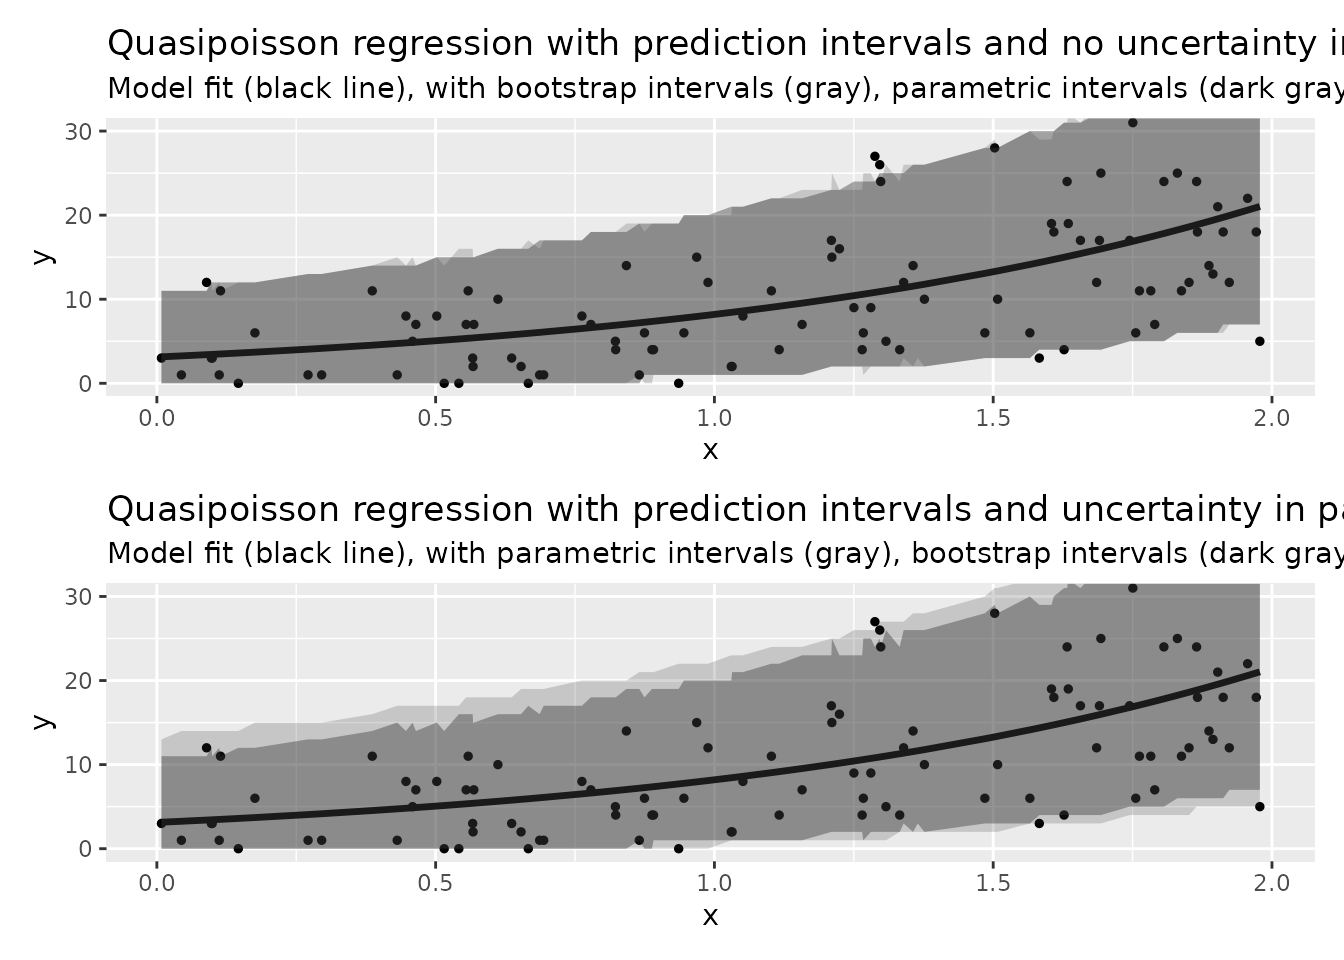
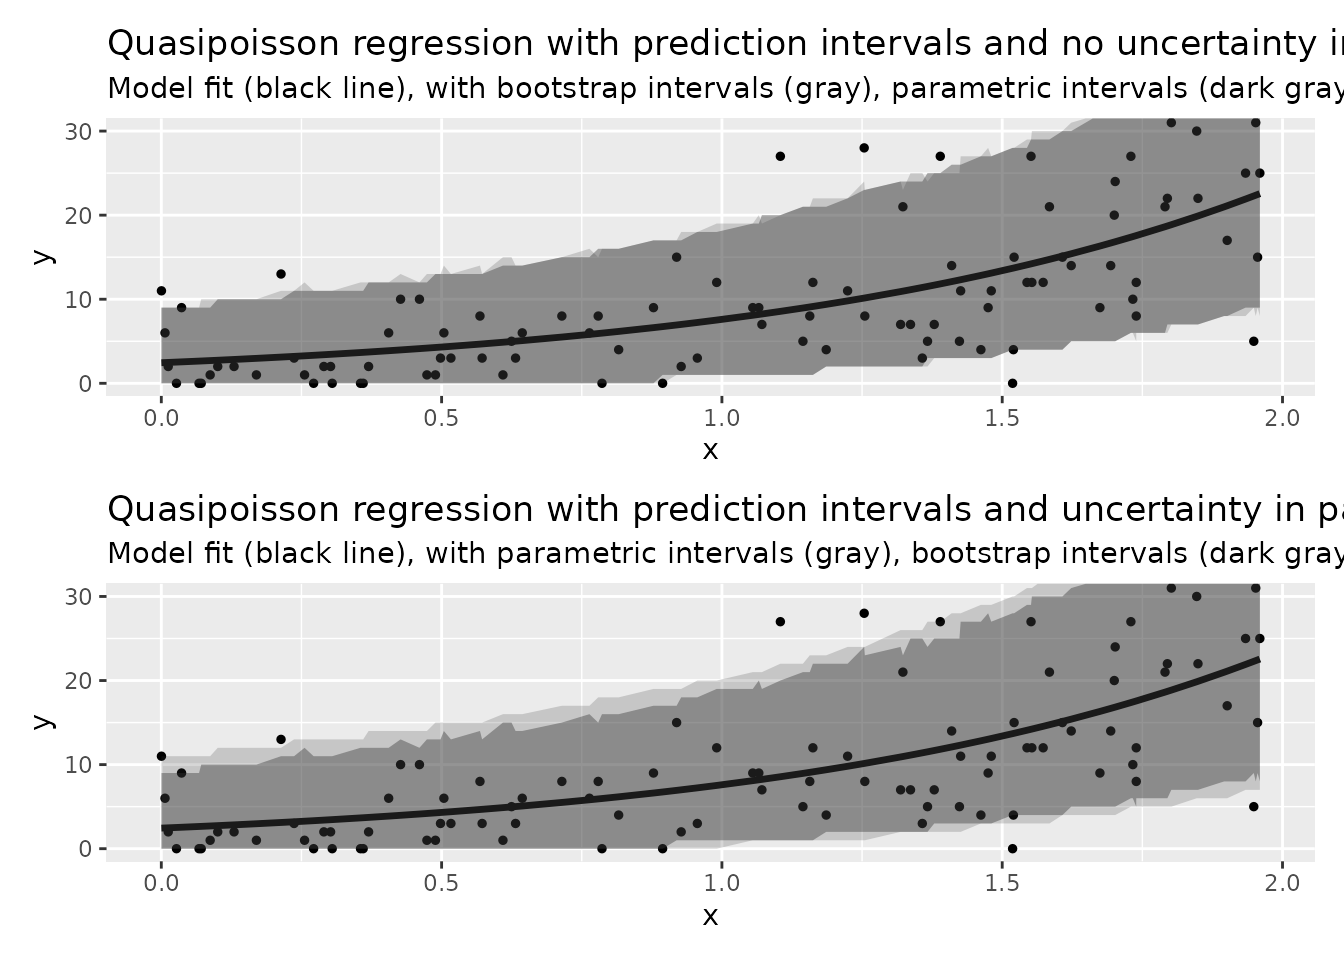
Built site for trending: 0.0.3.9000@e8d33d1

diff --git a/articles/prediction_intervals.html b/articles/prediction_intervals.html
@@ -141,13 +141,13 @@
 <span class="co">#&gt; Warning in add_pi.glm(dat, fit, names = c("lpb", "upb"), alpha = 0.1, nsims =</span>
 <span class="co">#&gt; 20000): The response is not continuous, so Prediction Intervals are approximate</span>
 <span class="fu"><a href="https://rdrr.io/r/utils/head.html">head</a></span><span class="op">(</span><span class="va">dat1</span><span class="op">)</span>
-<span class="co">#&gt;             x  y      pred lpb upb</span>
-<span class="co">#&gt; 1 -0.93034106  1  2.538928   0   6</span>
-<span class="co">#&gt; 2 -0.33534733  6  3.562055   1   7</span>
-<span class="co">#&gt; 3 -0.07144484  4  4.139264   1   8</span>
-<span class="co">#&gt; 4  2.03782205 12 13.747383   8  20</span>
-<span class="co">#&gt; 5 -1.28793915  0  2.071435   0   5</span>
-<span class="co">#&gt; 6  0.24779871  4  4.963899   2   9</span>
+<span class="co">#&gt;             x  y     pred lpb upb</span>
+<span class="co">#&gt; 1  0.12347935 10 5.267692   2   9</span>
+<span class="co">#&gt; 2 -0.18997669  4 4.616599   1   9</span>
+<span class="co">#&gt; 3  1.63260433  9 9.942160   5  16</span>
+<span class="co">#&gt; 4  0.50261976  6 6.179101   2  10</span>
+<span class="co">#&gt; 5  0.02462994  6 5.053022   2   9</span>
+<span class="co">#&gt; 6  0.05769333  7 5.123833   2   9</span>
 
 <span class="co"># add intervals with trending (no uncertainty in parameters)</span>
 <span class="va">poisson_model</span> <span class="op">&lt;-</span> <span class="fu"><a href="../reference/trending_model.html">glm_model</a></span><span class="op">(</span><span class="va">y</span> <span class="op">~</span> <span class="va">x</span>, family <span class="op">=</span> <span class="st">"poisson"</span><span class="op">)</span>
@@ -158,12 +158,12 @@
 <span class="co">#&gt; &lt;trending_prediction&gt; 6 x 7</span>
 <span class="co">#&gt;       y       x estimate lower_ci upper_ci lower_pi upper_pi</span>
 <span class="co">#&gt;   &lt;int&gt;   &lt;dbl&gt;    &lt;dbl&gt;    &lt;dbl&gt;    &lt;dbl&gt;    &lt;dbl&gt;    &lt;dbl&gt;</span>
-<span class="co">#&gt; 1     1 -0.930      2.54     2.21     2.91        0        5</span>
-<span class="co">#&gt; 2     6 -0.335      3.56     3.22     3.95        1        7</span>
-<span class="co">#&gt; 3     4 -0.0714     4.14     3.79     4.53        1        8</span>
-<span class="co">#&gt; 4    12  2.04      13.7     12.2     15.5         8       20</span>
-<span class="co">#&gt; 5     0 -1.29       2.07     1.76     2.43        0        5</span>
-<span class="co">#&gt; 6     4  0.248      4.96     4.60     5.36        2        9</span>
+<span class="co">#&gt; 1    10  0.123      5.27     4.90     5.67        2        9</span>
+<span class="co">#&gt; 2     4 -0.190      4.62     4.26     5.00        1        8</span>
+<span class="co">#&gt; 3     9  1.63       9.94     8.82    11.2         5       15</span>
+<span class="co">#&gt; 4     6  0.503      6.18     5.74     6.65        2       11</span>
+<span class="co">#&gt; 5     6  0.0246     5.05     4.69     5.44        2        9</span>
+<span class="co">#&gt; 6     7  0.0577     5.12     4.76     5.52        2        9</span>
 
 <span class="co"># add intervals with trending (uncertainty in parameters)</span>
 <span class="va">dat3</span> <span class="op">&lt;-</span> <span class="fu"><a href="https://rdrr.io/r/stats/predict.html">predict</a></span><span class="op">(</span><span class="va">fitted_model</span>, simulate_pi <span class="op">=</span> <span class="cn">FALSE</span>, alpha <span class="op">=</span> <span class="fl">0.1</span><span class="op">)</span>
@@ -172,12 +172,12 @@
 <span class="co">#&gt; &lt;trending_prediction&gt; 6 x 7</span>
 <span class="co">#&gt;       y       x estimate lower_ci upper_ci lower_pi upper_pi</span>
 <span class="co">#&gt;   &lt;int&gt;   &lt;dbl&gt;    &lt;dbl&gt;    &lt;dbl&gt;    &lt;dbl&gt;    &lt;dbl&gt;    &lt;dbl&gt;</span>
-<span class="co">#&gt; 1     1 -0.930      2.54     2.21     2.91        0        6</span>
-<span class="co">#&gt; 2     6 -0.335      3.56     3.22     3.95        1        7</span>
-<span class="co">#&gt; 3     4 -0.0714     4.14     3.79     4.53        1        8</span>
-<span class="co">#&gt; 4    12  2.04      13.7     12.2     15.5         7       22</span>
-<span class="co">#&gt; 5     0 -1.29       2.07     1.76     2.43        0        5</span>
-<span class="co">#&gt; 6     4  0.248      4.96     4.60     5.36        1        9</span>
+<span class="co">#&gt; 1    10  0.123      5.27     4.90     5.67        2       10</span>
+<span class="co">#&gt; 2     4 -0.190      4.62     4.26     5.00        1        9</span>
+<span class="co">#&gt; 3     9  1.63       9.94     8.82    11.2         4       17</span>
+<span class="co">#&gt; 4     6  0.503      6.18     5.74     6.65        2       11</span>
+<span class="co">#&gt; 5     6  0.0246     5.05     4.69     5.44        1       10</span>
+<span class="co">#&gt; 6     7  0.0577     5.12     4.76     5.52        2       10</span>
 
 <span class="co"># plots</span>
 <span class="va">p1</span> <span class="op">&lt;-</span> <span class="fu"><a href="https://ggplot2.tidyverse.org/reference/ggplot.html">ggplot</a></span><span class="op">(</span><span class="va">dat1</span>, <span class="fu"><a href="https://ggplot2.tidyverse.org/reference/aes.html">aes</a></span><span class="op">(</span><span class="va">x</span>, <span class="va">y</span><span class="op">)</span><span class="op">)</span> <span class="op">+</span>
@@ -221,13 +221,13 @@
 <span class="co">#&gt; Warning in add_pi.glm(dat, fit, names = c("lpb", "upb"), alpha = 0.1, nsims =</span>
 <span class="co">#&gt; 20000): The response is not continuous, so Prediction Intervals are approximate</span>
 <span class="fu"><a href="https://rdrr.io/r/utils/head.html">head</a></span><span class="op">(</span><span class="va">dat1</span><span class="op">)</span>
-<span class="co">#&gt;           x  y      pred lpb upb</span>
-<span class="co">#&gt; 1 1.6271397  4 14.995543   4  31</span>
-<span class="co">#&gt; 2 1.8648148 24 18.855610   6  36</span>
-<span class="co">#&gt; 3 1.2965408 26 10.904123   2  25</span>
-<span class="co">#&gt; 4 0.6363666  3  5.771336   0  16</span>
-<span class="co">#&gt; 5 0.4645230  7  4.890481   0  14</span>
-<span class="co">#&gt; 6 1.8061481 24 17.819099   5  35</span>
+<span class="co">#&gt;           x  y     pred lpb upb</span>
+<span class="co">#&gt; 1 1.3574754  3 11.40023   2  25</span>
+<span class="co">#&gt; 2 1.5842393 21 14.74122   4  30</span>
+<span class="co">#&gt; 3 1.2549040  8 10.14904   2  23</span>
+<span class="co">#&gt; 4 0.7637033  6  5.81623   0  16</span>
+<span class="co">#&gt; 5 1.7904005 21 18.62139   6  36</span>
+<span class="co">#&gt; 6 1.8492033 22 19.90474   7  37</span>
 
 <span class="co"># add intervals with trending (no uncertainty in parameters)</span>
 <span class="va">quasipoisson_model</span> <span class="op">&lt;-</span> <span class="fu"><a href="../reference/trending_model.html">glm_model</a></span><span class="op">(</span><span class="va">y</span> <span class="op">~</span> <span class="va">x</span>, family <span class="op">=</span> <span class="fu"><a href="https://rdrr.io/r/stats/family.html">quasipoisson</a></span><span class="op">(</span>link <span class="op">=</span> <span class="st">"log"</span><span class="op">)</span><span class="op">)</span>
@@ -238,12 +238,12 @@
 <span class="co">#&gt; &lt;trending_prediction&gt; 6 x 7</span>
 <span class="co">#&gt;       y     x estimate lower_ci upper_ci lower_pi upper_pi</span>
 <span class="co">#&gt;   &lt;int&gt; &lt;dbl&gt;    &lt;dbl&gt;    &lt;dbl&gt;    &lt;dbl&gt;    &lt;dbl&gt;    &lt;dbl&gt;</span>
-<span class="co">#&gt; 1     4 1.63     15.0     13.3     16.9         4       31</span>
-<span class="co">#&gt; 2    24 1.86     18.9     16.2     21.9         6       36</span>
-<span class="co">#&gt; 3    26 1.30     10.9      9.73    12.2         2       25</span>
-<span class="co">#&gt; 4     3 0.636     5.77     4.71     7.08        0       16</span>
-<span class="co">#&gt; 5     7 0.465     4.89     3.86     6.20        0       14</span>
-<span class="co">#&gt; 6    24 1.81     17.8     15.5     20.5         5       35</span>
+<span class="co">#&gt; 1     3 1.36     11.4     10.2     12.7         2       24</span>
+<span class="co">#&gt; 2    21 1.58     14.7     13.1     16.6         4       29</span>
+<span class="co">#&gt; 3     8 1.25     10.1      9.07    11.4         2       23</span>
+<span class="co">#&gt; 4     6 0.764     5.82     4.88     6.93        0       15</span>
+<span class="co">#&gt; 5    21 1.79     18.6     16.2     21.4         6       35</span>
+<span class="co">#&gt; 6    22 1.85     19.9     17.2     23.0         7       37</span>
 
 <span class="co"># add intervals with trending (uncertainty in parameters)</span>
 <span class="va">dat3</span> <span class="op">&lt;-</span> <span class="fu"><a href="https://rdrr.io/r/stats/predict.html">predict</a></span><span class="op">(</span><span class="va">fitted_model</span>, simulate_pi <span class="op">=</span> <span class="cn">FALSE</span>, alpha <span class="op">=</span> <span class="fl">0.1</span><span class="op">)</span>
@@ -252,12 +252,12 @@
 <span class="co">#&gt; &lt;trending_prediction&gt; 6 x 7</span>
 <span class="co">#&gt;       y     x estimate lower_ci upper_ci lower_pi upper_pi</span>
 <span class="co">#&gt;   &lt;int&gt; &lt;dbl&gt;    &lt;dbl&gt;    &lt;dbl&gt;    &lt;dbl&gt;    &lt;dbl&gt;    &lt;dbl&gt;</span>
-<span class="co">#&gt; 1     4 1.63     15.0     13.3     16.9         3       34</span>
-<span class="co">#&gt; 2    24 1.86     18.9     16.2     21.9         5       41</span>
-<span class="co">#&gt; 3    26 1.30     10.9      9.73    12.2         1       27</span>
-<span class="co">#&gt; 4     3 0.636     5.77     4.71     7.08        0       18</span>
-<span class="co">#&gt; 5     7 0.465     4.89     3.86     6.20        0       17</span>
-<span class="co">#&gt; 6    24 1.81     17.8     15.5     20.5         4       39</span>
+<span class="co">#&gt; 1     3 1.36     11.4     10.2     12.7         2       26</span>
+<span class="co">#&gt; 2    21 1.58     14.7     13.1     16.6         3       32</span>
+<span class="co">#&gt; 3     8 1.25     10.1      9.07    11.4         1       24</span>
+<span class="co">#&gt; 4     6 0.764     5.82     4.88     6.93        0       17</span>
+<span class="co">#&gt; 5    21 1.79     18.6     16.2     21.4         5       39</span>
+<span class="co">#&gt; 6    22 1.85     19.9     17.2     23.0         6       41</span>
 
 <span class="co"># plots</span>
 <span class="va">p3</span> <span class="op">&lt;-</span> <span class="fu"><a href="https://ggplot2.tidyverse.org/reference/ggplot.html">ggplot</a></span><span class="op">(</span><span class="va">dat1</span>, <span class="fu"><a href="https://ggplot2.tidyverse.org/reference/aes.html">aes</a></span><span class="op">(</span><span class="va">x</span>, <span class="va">y</span><span class="op">)</span><span class="op">)</span> <span class="op">+</span>

diff --git a/articles/Introduction.html b/articles/Introduction.html
@@ -242,20 +242,20 @@
 <span class="co">#&gt; &lt;trending_prediction&gt; 14 x 8</span>
 <span class="co">#&gt;    date         day weekday      estimate lower_ci upper_ci lower_pi upper_pi</span>
 <span class="co">#&gt;    &lt;date&gt;     &lt;int&gt; &lt;fct&gt;           &lt;dbl&gt;    &lt;dbl&gt;    &lt;dbl&gt;    &lt;dbl&gt;    &lt;dbl&gt;</span>
-<span class="co">#&gt;  1 2020-05-15    58 rest_of_week   12682.   11390.   14122.     8931    17243</span>
-<span class="co">#&gt;  2 2020-05-16    59 weekend        10625.    9299.   12140.     7453    14566</span>
-<span class="co">#&gt;  3 2020-05-17    60 weekend        10262.    8956.   11759.     7152    14145</span>
-<span class="co">#&gt;  4 2020-05-18    61 monday         13840.   11749.   16303.     9546    19410</span>
-<span class="co">#&gt;  5 2020-05-19    62 rest_of_week   11036.    9782.   12450.     7769    15132</span>
-<span class="co">#&gt;  6 2020-05-20    63 rest_of_week   10659.    9416.   12066.     7389    14550</span>
-<span class="co">#&gt;  7 2020-05-21    64 rest_of_week   10295.    9064.   11693.     7293    14153</span>
-<span class="co">#&gt;  8 2020-05-22    65 rest_of_week    9943.    8724.   11333.     7035    13519</span>
-<span class="co">#&gt;  9 2020-05-23    66 weekend         8330.    7138.    9721.     5737    11412</span>
-<span class="co">#&gt; 10 2020-05-24    67 weekend         8045.    6872.    9419.     5576    11076</span>
-<span class="co">#&gt; 11 2020-05-25    68 monday         10851.    9048.   13012.     7326    15113</span>
-<span class="co">#&gt; 12 2020-05-26    69 rest_of_week    8652.    7486.   10001.     5937    12089</span>
-<span class="co">#&gt; 13 2020-05-27    70 rest_of_week    8357.    7204.    9694.     5711    11292</span>
-<span class="co">#&gt; 14 2020-05-28    71 rest_of_week    8071.    6933.    9396.     5556    11166</span></code></pre></div>
+<span class="co">#&gt;  1 2020-05-15    58 rest_of_week   12682.   11390.   14122.     9008    17419</span>
+<span class="co">#&gt;  2 2020-05-16    59 weekend        10625.    9299.   12140.     7370    15093</span>
+<span class="co">#&gt;  3 2020-05-17    60 weekend        10262.    8956.   11759.     7202    14107</span>
+<span class="co">#&gt;  4 2020-05-18    61 monday         13840.   11749.   16303.     9297    19564</span>
+<span class="co">#&gt;  5 2020-05-19    62 rest_of_week   11036.    9782.   12450.     7741    14985</span>
+<span class="co">#&gt;  6 2020-05-20    63 rest_of_week   10659.    9416.   12066.     7412    14656</span>
+<span class="co">#&gt;  7 2020-05-21    64 rest_of_week   10295.    9064.   11693.     7179    14213</span>
+<span class="co">#&gt;  8 2020-05-22    65 rest_of_week    9943.    8724.   11333.     6888    13474</span>
+<span class="co">#&gt;  9 2020-05-23    66 weekend         8330.    7138.    9721.     5664    11652</span>
+<span class="co">#&gt; 10 2020-05-24    67 weekend         8045.    6872.    9419.     5574    11066</span>
+<span class="co">#&gt; 11 2020-05-25    68 monday         10851.    9048.   13012.     7301    15338</span>
+<span class="co">#&gt; 12 2020-05-26    69 rest_of_week    8652.    7486.   10001.     6078    11984</span>
+<span class="co">#&gt; 13 2020-05-27    70 rest_of_week    8357.    7204.    9694.     5755    11701</span>
+<span class="co">#&gt; 14 2020-05-28    71 rest_of_week    8071.    6933.    9396.     5518    11314</span></code></pre></div>
 </div>
 <div id="example-of-failed-model-fitting" class="section level2">
 <h2 class="hasAnchor">

diff --git a/reference/accessors.html b/reference/accessors.html
@@ -337,7 +337,7 @@
 #&gt; </div><div class='input'><span class='fu'>get_formula</span><span class='op'>(</span><span class='va'>fitted_poisson</span><span class='op'>)</span>
 </div><div class='output co'>#&gt; [[1]]
 #&gt; y ~ x
-#&gt; &lt;environment: 0x558167234fd8&gt;
+#&gt; &lt;environment: 0x56404fa83568&gt;
 #&gt; </div><div class='input'><span class='fu'>get_response</span><span class='op'>(</span><span class='va'>fitted_poisson</span><span class='op'>)</span>
 </div><div class='output co'>#&gt; [[1]]
 #&gt; [1] "y"
